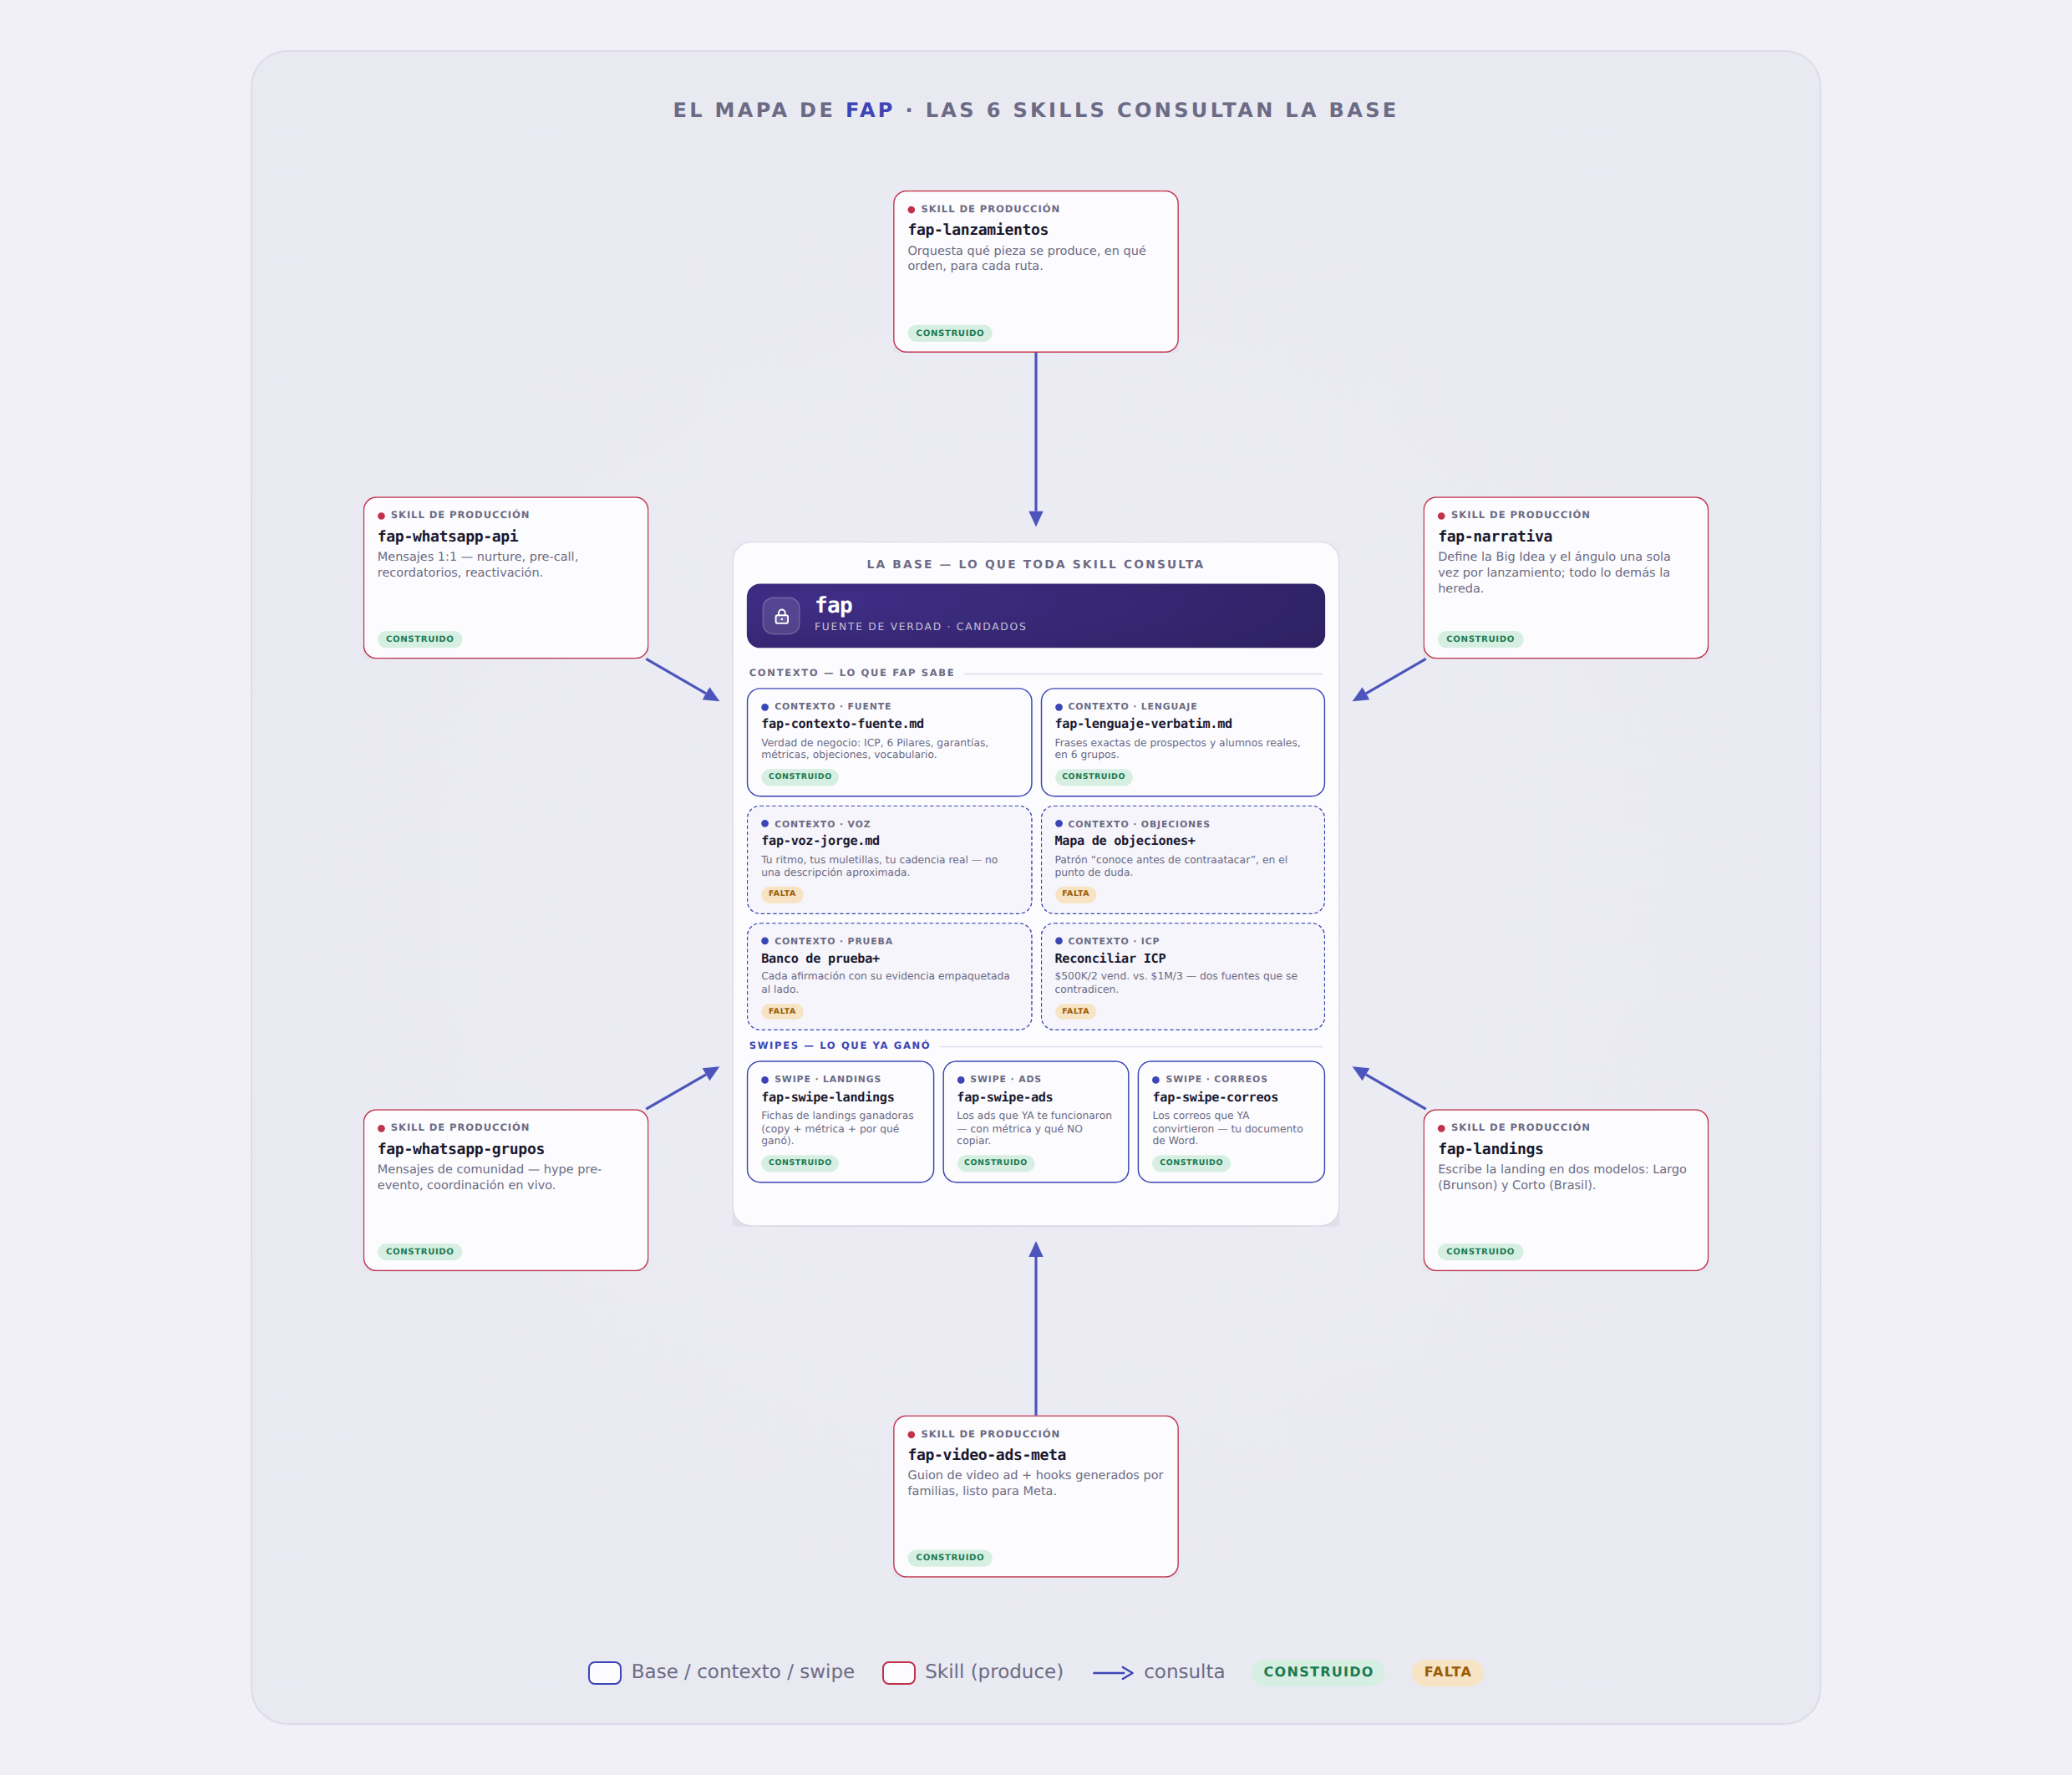
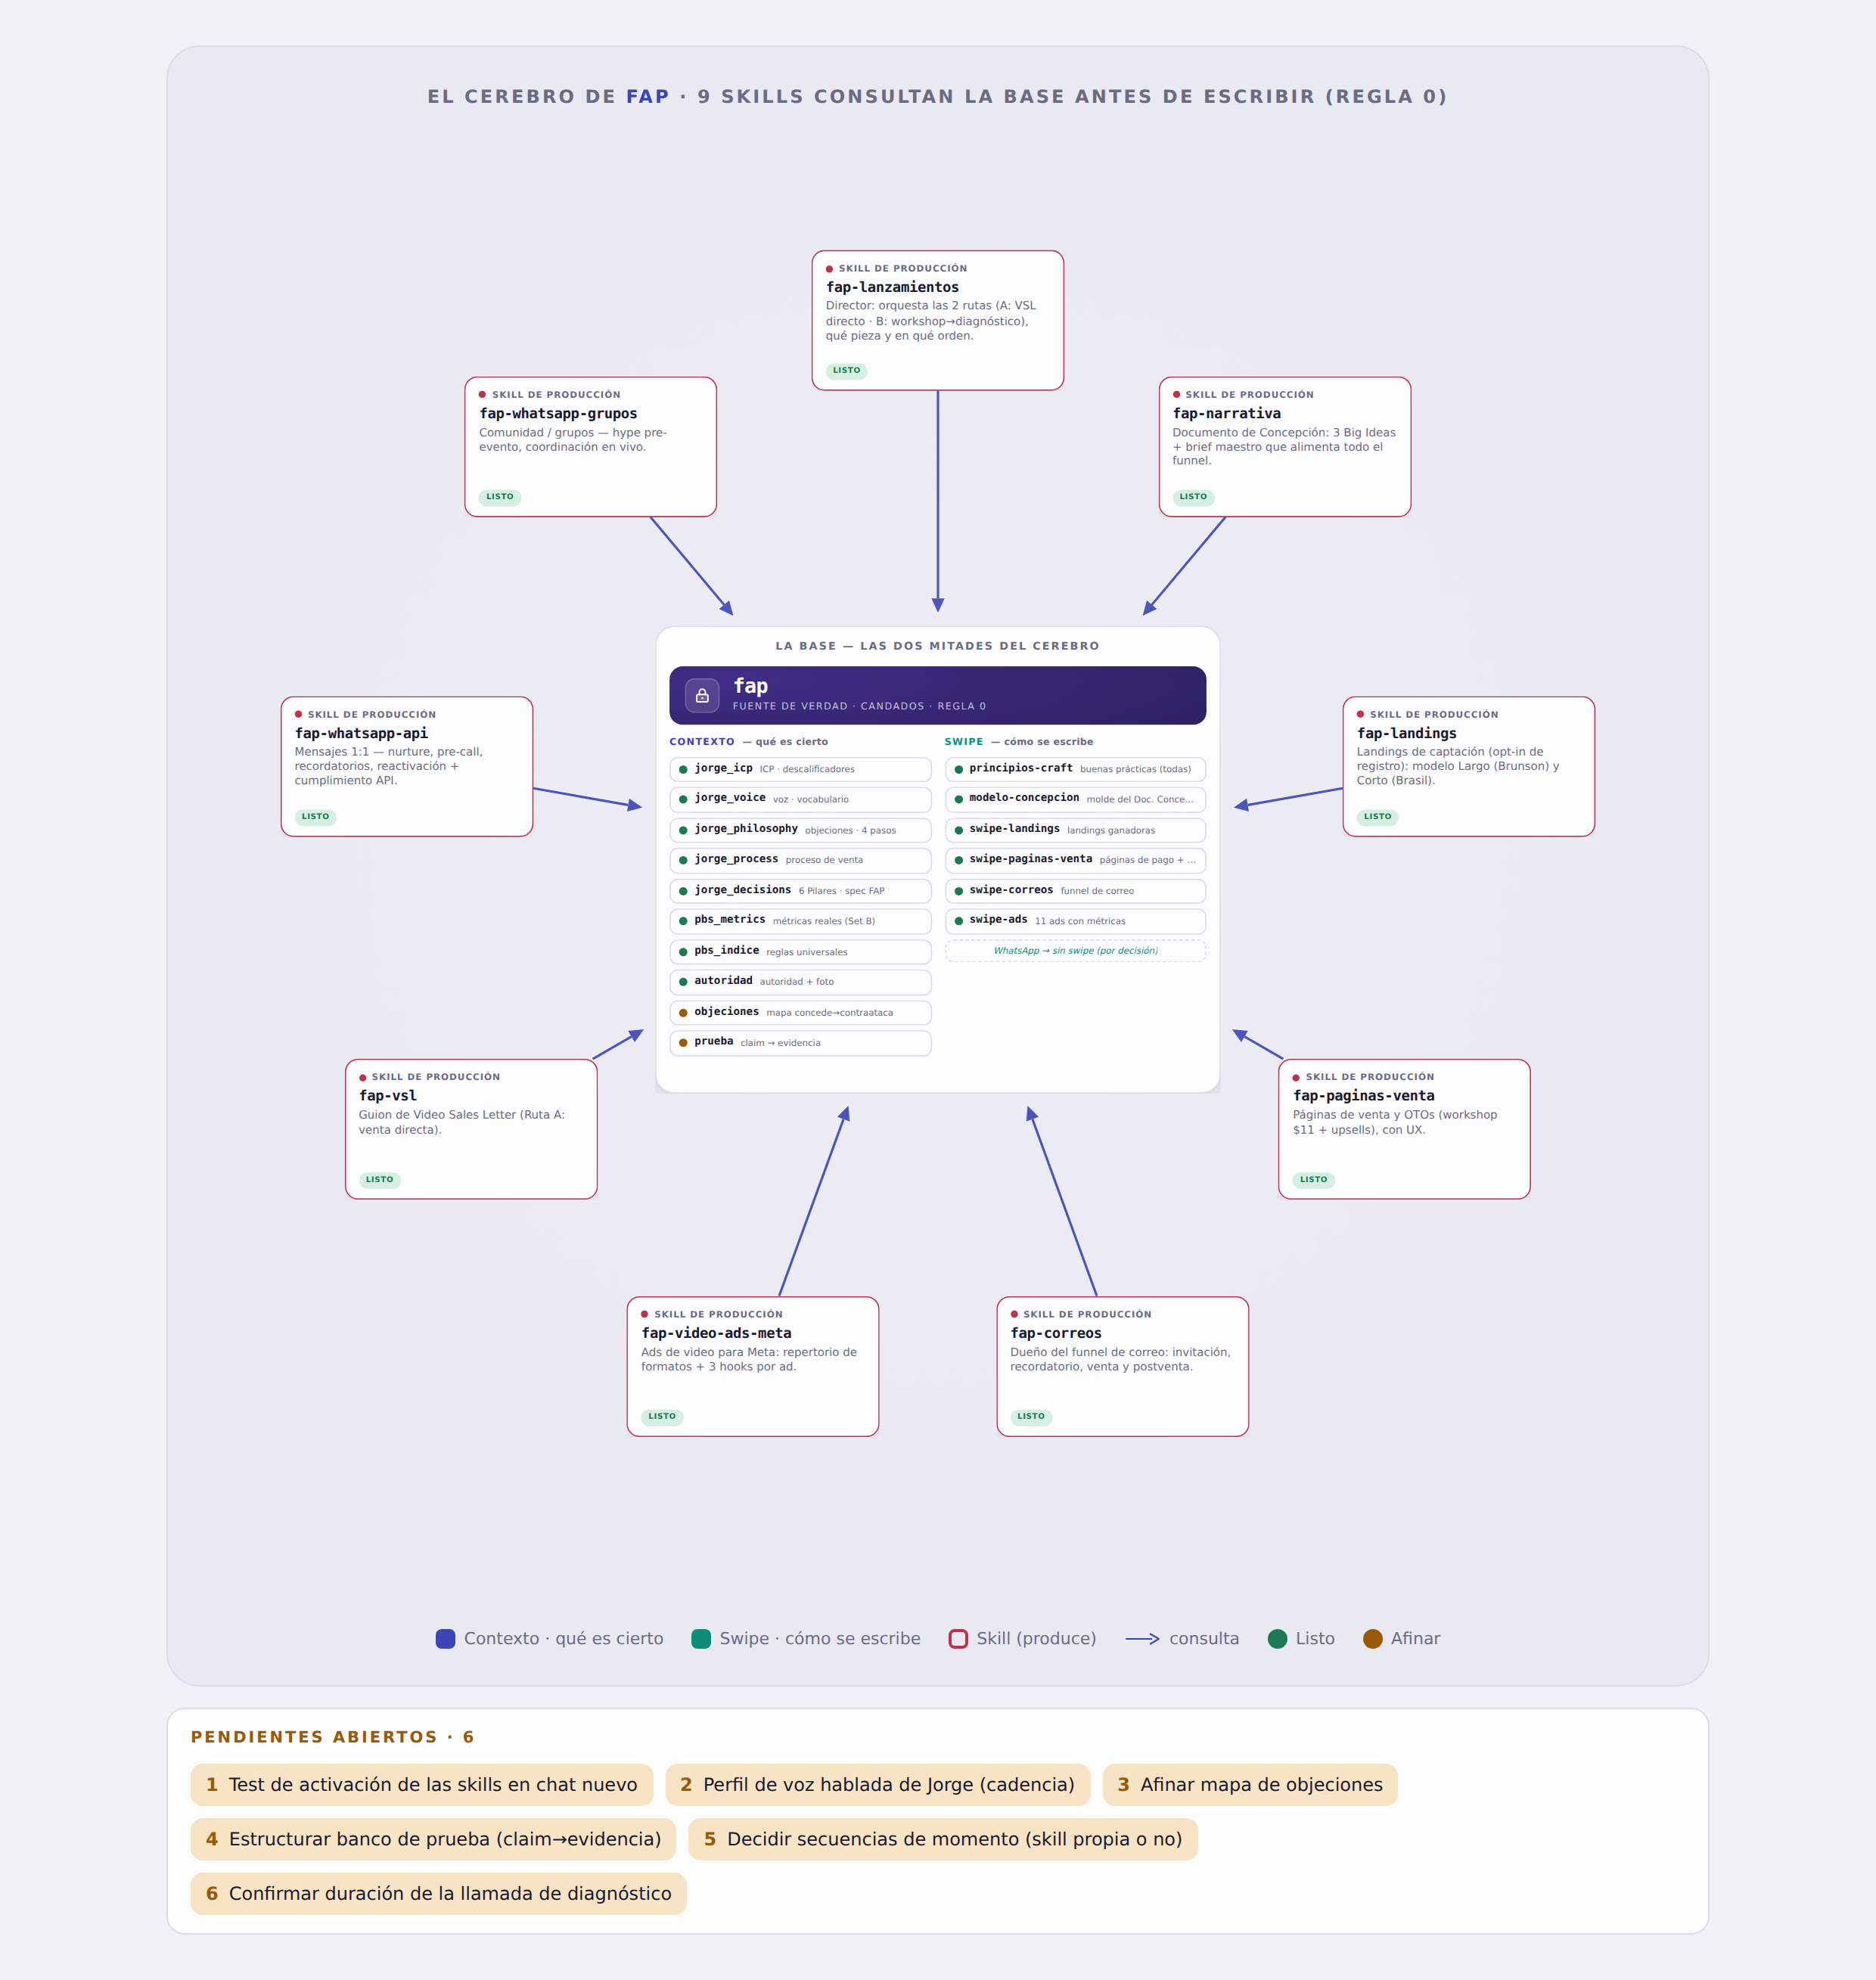
Mapa de fap: regenerado con el estado real (contexto+swipe, 9 skills, 6 pendientes)
Claude-Session: https://claude.ai/code/session_018mepF7wzZWdrftPjNoKxZB

diff --git a/piezas/mapa-cerebro-fap.html b/piezas/mapa-cerebro-fap.html
@@ -1,9 +1,9 @@
-<title>El mapa de fap</title>
+<title>El cerebro de fap</title>
 <style>
   :root{
     --bg:#F1F0F7; --panel:#E9E9F2; --card:#FCFCFE; --card-miss:#F6F5FB;
     --ink:#1A1930; --muted:#6C6B85; --hair:#DCDBEA;
-    --ctx:#3B45B5; --skill:#C0324B;
+    --ctx:#3B45B5; --sw:#0E8C7A; --skill:#C0324B;
     --navy1:#2A1F5C; --navy2:#3F2E86;
     --built-bg:#D7EFE2; --built-fg:#1B7A52;
     --miss-bg:#F6E4C4; --miss-fg:#9A5A05;
@@ -13,7 +13,7 @@
     :root{
       --bg:#0C0C17; --panel:#131324; --card:#1C1C31; --card-miss:#17172A;
       --ink:#EAEAF6; --muted:#9998B6; --hair:#2A2A44;
-      --ctx:#8A93F2; --skill:#F0788C;
+      --ctx:#8A93F2; --sw:#3FC7B4; --skill:#F0788C;
       --navy1:#3A2E7A; --navy2:#5B48B0;
       --built-bg:#123A2A; --built-fg:#6FE0A6; --miss-bg:#3A2C10; --miss-fg:#F2C579;
       --accent:#8A93F2;
@@ -22,13 +22,13 @@
   :root[data-theme="light"]{
     --bg:#F1F0F7; --panel:#E9E9F2; --card:#FCFCFE; --card-miss:#F6F5FB;
     --ink:#1A1930; --muted:#6C6B85; --hair:#DCDBEA;
-    --ctx:#3B45B5; --skill:#C0324B; --navy1:#2A1F5C; --navy2:#3F2E86;
+    --ctx:#3B45B5; --sw:#0E8C7A; --skill:#C0324B; --navy1:#2A1F5C; --navy2:#3F2E86;
     --built-bg:#D7EFE2; --built-fg:#1B7A52; --miss-bg:#F6E4C4; --miss-fg:#9A5A05; --accent:#3B45B5;
   }
   :root[data-theme="dark"]{
     --bg:#0C0C17; --panel:#131324; --card:#1C1C31; --card-miss:#17172A;
     --ink:#EAEAF6; --muted:#9998B6; --hair:#2A2A44;
-    --ctx:#8A93F2; --skill:#F0788C; --navy1:#3A2E7A; --navy2:#5B48B0;
+    --ctx:#8A93F2; --sw:#3FC7B4; --skill:#F0788C; --navy1:#3A2E7A; --navy2:#5B48B0;
     --built-bg:#123A2A; --built-fg:#6FE0A6; --miss-bg:#3A2C10; --miss-fg:#F2C579; --accent:#8A93F2;
   }
 
@@ -36,55 +36,62 @@
   body{margin:0;background:var(--bg);color:var(--ink);
     font-family:system-ui,"Segoe UI",Roboto,Helvetica,Arial,sans-serif;line-height:1.5;-webkit-font-smoothing:antialiased}
   .mono{font-family:ui-monospace,"SF Mono",Menlo,Consolas,monospace}
-  .wrap{max-width:1000px;margin:0 auto;padding:clamp(14px,3vw,30px)}
+  .wrap{max-width:1080px;margin:0 auto;padding:clamp(14px,3vw,30px)}
 
   .diagram{background:
-      radial-gradient(58% 52% at 50% 50%, color-mix(in srgb,var(--panel) 42%, var(--bg)) 0%, var(--panel) 100%);
+      radial-gradient(56% 50% at 50% 48%, color-mix(in srgb,var(--panel) 40%, var(--bg)) 0%, var(--panel) 100%);
     border:1px solid var(--hair);border-radius:22px;padding:clamp(10px,1.8vw,20px)}
-  .ring-cap{text-align:center;font-size:12px;letter-spacing:.14em;text-transform:uppercase;color:var(--muted);font-weight:600;margin:6px 0 2px}
+  .ring-cap{text-align:center;font-size:12px;letter-spacing:.13em;text-transform:uppercase;color:var(--muted);font-weight:600;margin:4px 0 0}
   .ring-cap b{color:var(--accent)}
   .diagram svg{display:block;width:100%;height:auto}
 
-  /* node cards */
-  .node{border-radius:11px;padding:9px 11px 8px;background:var(--card);display:flex;flex-direction:column;gap:4px;height:100%}
-  .node.ctx{border:1.5px solid var(--ctx)}
-  .node.skill{border:1.7px solid var(--skill);box-shadow:0 8px 20px -14px rgba(24,18,70,.5)}
-  .node.missing{border-style:dashed;background:var(--card-miss)}
-  .node .cat{display:flex;align-items:center;gap:5px;font-size:8px;letter-spacing:.08em;text-transform:uppercase;color:var(--muted);font-weight:700}
-  .node .cat .d{width:6px;height:6px;border-radius:50%;flex:none}
-  .node.ctx .cat .d{background:var(--ctx)} .node.skill .cat .d{background:var(--skill)}
-  .node .ttl{font-family:ui-monospace,Menlo,Consolas,monospace;font-weight:650;color:var(--ink);line-height:1.1;letter-spacing:-.02em}
-  .node .desc{color:var(--muted);flex:1}
-  .node .pill{align-self:flex-start;font-weight:800;letter-spacing:.06em;text-transform:uppercase;border-radius:999px;margin-top:1px}
-  .pill.built{background:var(--built-bg);color:var(--built-fg)}
-  .pill.miss{background:var(--miss-bg);color:var(--miss-fg)}
-  .cbase .node .ttl{font-size:10.5px} .cbase .node .desc{font-size:8.5px;line-height:1.25}
-  .cbase .node .pill{font-size:6.5px;padding:2px 6px} .cbase .node .cat{font-size:7.5px}
-  .skl .ttl{font-size:12.5px} .skl .desc{font-size:10px;line-height:1.3} .skl .cat{font-size:8px} .skl .pill{font-size:7px;padding:2px 7px}
+  /* ring skill cards */
+  .node{border-radius:11px;padding:9px 11px 8px;background:var(--card);display:flex;flex-direction:column;gap:4px;height:100%;
+    border:1.7px solid var(--skill);box-shadow:0 8px 20px -14px rgba(24,18,70,.5)}
+  .node .cat{display:flex;align-items:center;gap:5px;font-size:7.5px;letter-spacing:.08em;text-transform:uppercase;color:var(--muted);font-weight:700}
+  .node .cat .d{width:6px;height:6px;border-radius:50%;flex:none;background:var(--skill)}
+  .node .ttl{font-family:ui-monospace,Menlo,Consolas,monospace;font-weight:650;color:var(--ink);line-height:1.1;letter-spacing:-.02em;font-size:12px}
+  .node .desc{color:var(--muted);flex:1;font-size:9.5px;line-height:1.28}
+  .node .pill{align-self:flex-start;font-weight:800;letter-spacing:.06em;text-transform:uppercase;border-radius:999px;
+    font-size:6.5px;padding:2px 6px;background:var(--built-bg);color:var(--built-fg)}
 
   /* central base */
   .cbase{width:100%;height:100%;background:var(--card);border:1px solid var(--hair);border-radius:16px;padding:11px;
-    display:flex;flex-direction:column;box-shadow:0 22px 50px -28px rgba(24,18,70,.55)}
-  .cbase .btitle{text-align:center;font-size:9.5px;letter-spacing:.16em;text-transform:uppercase;color:var(--muted);font-weight:700;margin:1px 0 8px}
-  .fapbar{display:flex;align-items:center;gap:12px;border-radius:11px;padding:10px 13px;margin-bottom:8px;
+    display:flex;flex-direction:column;box-shadow:0 22px 52px -28px rgba(24,18,70,.55)}
+  .cbase .btitle{text-align:center;font-size:9px;letter-spacing:.15em;text-transform:uppercase;color:var(--muted);font-weight:700;margin:0 0 8px}
+  .fapbar{display:flex;align-items:center;gap:11px;border-radius:11px;padding:9px 13px;margin-bottom:9px;
     background:radial-gradient(120% 170% at 12% 25%,var(--navy2),var(--navy1));color:#fff}
-  .fapbar .lock{width:31px;height:31px;border-radius:9px;flex:none;display:grid;place-items:center;background:rgba(255,255,255,.12);border:1px solid rgba(255,255,255,.18)}
-  .fapbar .lock svg{width:16px;height:16px}
-  .fapbar .t{font-family:ui-monospace,Menlo,monospace;font-size:18px;font-weight:700;letter-spacing:-.5px;line-height:1}
-  .fapbar .s{font-size:8.5px;letter-spacing:.14em;text-transform:uppercase;color:rgba(255,255,255,.72);margin-top:2px}
-  .grplbl{display:flex;align-items:center;gap:8px;font-size:8px;letter-spacing:.14em;text-transform:uppercase;color:var(--muted);font-weight:700;margin:7px 2px 6px}
-  .grplbl::after{content:"";flex:1;height:1px;background:var(--hair)}
-  .grplbl.sw{color:var(--ctx)}
-  .bgrid2{display:grid;grid-template-columns:1fr 1fr;gap:7px}
-  .bgrid3{display:grid;grid-template-columns:1fr 1fr 1fr;gap:7px}
+  .fapbar .lock{width:29px;height:29px;border-radius:8px;flex:none;display:grid;place-items:center;background:rgba(255,255,255,.12);border:1px solid rgba(255,255,255,.18)}
+  .fapbar .lock svg{width:15px;height:15px}
+  .fapbar .t{font-family:ui-monospace,Menlo,monospace;font-size:17px;font-weight:700;letter-spacing:-.5px;line-height:1}
+  .fapbar .s{font-size:8px;letter-spacing:.12em;text-transform:uppercase;color:rgba(255,255,255,.72);margin-top:2px}
+  .btwo{display:grid;grid-template-columns:1fr 1fr;gap:11px;flex:1}
+  .bcol{display:flex;flex-direction:column;gap:4px;min-width:0}
+  .glbl{display:flex;align-items:center;gap:6px;font-size:8px;letter-spacing:.1em;text-transform:uppercase;font-weight:800;margin-bottom:2px}
+  .glbl.c{color:var(--ctx)} .glbl.s{color:var(--sw)}
+  .glbl .tag{font-weight:600;color:var(--muted);letter-spacing:.02em;text-transform:none}
+  .chip{display:flex;align-items:center;gap:6px;padding:3px 7px;border-radius:7px;background:var(--card);border:1px solid var(--hair);min-width:0}
+  .chip .dot{width:7px;height:7px;border-radius:50%;flex:none}
+  .chip .dot.ok{background:var(--built-fg)} .chip .dot.mid{background:var(--miss-fg)}
+  .chip .nm{font-family:ui-monospace,Menlo,Consolas,monospace;font-size:9px;font-weight:650;color:var(--ink);white-space:nowrap;flex:none}
+  .chip .rl{font-size:7.5px;color:var(--muted);white-space:nowrap;overflow:hidden;text-overflow:ellipsis;min-width:0}
+  .chip.note{border-style:dashed;justify-content:center}
+  .chip.note .rl{font-style:italic;text-align:center;flex:none;color:var(--sw)}
 
-  /* mini legend */
-  .mini{display:flex;flex-wrap:wrap;justify-content:center;gap:16px;margin:10px 4px 2px;font-size:11.5px;color:var(--muted)}
+  /* mini legend + pendientes */
+  .mini{display:flex;flex-wrap:wrap;justify-content:center;gap:14px 18px;margin:12px 4px 2px;font-size:11px;color:var(--muted)}
   .mini .i{display:flex;align-items:center;gap:6px}
-  .mini .sw{width:20px;height:14px;border-radius:4px;background:var(--card)}
-  .mini .sw.ctx{border:1.6px solid var(--ctx)} .mini .sw.skill{border:1.6px solid var(--skill)} .mini .sw.miss{border:1.6px dashed var(--muted)}
-  .mini .pl{font-size:8px;font-weight:800;letter-spacing:.08em;text-transform:uppercase;padding:2px 7px;border-radius:999px}
-  .mini svg{width:26px;height:12px;color:var(--accent)}
+  .mini .b{width:13px;height:13px;border-radius:4px;flex:none}
+  .mini .b.ctx{background:var(--ctx)} .mini .b.sw{background:var(--sw)} .mini .b.skill{border:2px solid var(--skill)}
+  .mini .b.ok{background:var(--built-fg)} .mini .b.mid{background:var(--miss-fg)}
+  .mini .b.dot{border-radius:50%}
+  .mini svg{width:24px;height:11px;color:var(--accent)}
+
+  .pend{margin-top:14px;border:1px solid var(--hair);border-radius:12px;background:var(--card);padding:12px 15px}
+  .pend h4{margin:0 0 8px;font-size:10.5px;letter-spacing:.14em;text-transform:uppercase;color:var(--miss-fg)}
+  .pend .list{display:flex;flex-wrap:wrap;gap:8px}
+  .pend .p{display:flex;align-items:center;gap:7px;font-size:12px;background:var(--miss-bg);color:var(--ink);border-radius:8px;padding:5px 10px}
+  .pend .p .n{font-weight:800;color:var(--miss-fg);font-variant-numeric:tabular-nums}
 
   .arrow-l{animation:apulse 2.6s ease-in-out infinite}
   @keyframes apulse{0%,100%{opacity:.55}50%{opacity:1}}
@@ -93,31 +100,47 @@
 
 <div class="wrap">
   <div class="diagram">
-    <div class="ring-cap">El mapa de <b>fap</b> · las 6 skills consultan la base</div>
+    <div class="ring-cap">El cerebro de <b>fap</b> · 9 skills consultan la base antes de escribir (Regla 0)</div>
     <div id="stage"></div>
     <div class="mini">
-      <span class="i"><span class="sw ctx"></span>Base / contexto / swipe</span>
-      <span class="i"><span class="sw skill"></span>Skill (produce)</span>
+      <span class="i"><span class="b ctx"></span>Contexto · qué es cierto</span>
+      <span class="i"><span class="b sw"></span>Swipe · cómo se escribe</span>
+      <span class="i"><span class="b skill"></span>Skill (produce)</span>
       <span class="i"><svg viewBox="0 0 44 20" aria-hidden="true"><line x1="2" y1="10" x2="34" y2="10" stroke="currentColor" stroke-width="2"/><path d="M32 4 L42 10 L32 16" fill="none" stroke="currentColor" stroke-width="2" stroke-linejoin="round" stroke-linecap="round"/></svg>consulta</span>
-      <span class="i"><span class="pl" style="background:var(--built-bg);color:var(--built-fg)">Construido</span></span>
-      <span class="i"><span class="pl" style="background:var(--miss-bg);color:var(--miss-fg)">Falta</span></span>
+      <span class="i"><span class="b ok dot"></span>Listo</span>
+      <span class="i"><span class="b mid dot"></span>Afinar</span>
+    </div>
+  </div>
+
+  <div class="pend">
+    <h4>Pendientes abiertos · 6</h4>
+    <div class="list">
+      <span class="p"><span class="n">1</span>Test de activación de las skills en chat nuevo</span>
+      <span class="p"><span class="n">2</span>Perfil de voz hablada de Jorge (cadencia)</span>
+      <span class="p"><span class="n">3</span>Afinar mapa de objeciones</span>
+      <span class="p"><span class="n">4</span>Estructurar banco de prueba (claim→evidencia)</span>
+      <span class="p"><span class="n">5</span>Decidir secuencias de momento (skill propia o no)</span>
+      <span class="p"><span class="n">6</span>Confirmar duración de la llamada de diagnóstico</span>
     </div>
   </div>
 </div>
 
 <script>
 (function(){
-  var CX=620, CY=624, R=506;
-  var BW=502, BH=566, bhw=BW/2, bhh=BH/2;
-  var SW=236, SH=134, shw=SW/2, shh=SH/2;
+  var CX=620, CY=628, R=452;
+  var BW=474, BH=392, bhw=BW/2, bhh=BH/2;
+  var SW=212, SH=118, shw=SW/2, shh=SH/2;
 
   var SK=[
-    {a:-90, ttl:'fap-lanzamientos', d:'Orquesta qué pieza se produce, en qué orden, para cada ruta.'},
-    {a:-30, ttl:'fap-narrativa',    d:'Define la Big Idea y el ángulo una sola vez por lanzamiento; todo lo demás la hereda.'},
-    {a: 30, ttl:'fap-landings',     d:'Escribe la landing en dos modelos: Largo (Brunson) y Corto (Brasil).'},
-    {a: 90, ttl:'fap-video-ads-meta',d:'Guion de video ad + hooks generados por familias, listo para Meta.'},
-    {a:150, ttl:'fap-whatsapp-grupos',d:'Mensajes de comunidad — hype pre-evento, coordinación en vivo.'},
-    {a:210, ttl:'fap-whatsapp-api', d:'Mensajes 1:1 — nurture, pre-call, recordatorios, reactivación.'}
+    {a:-90, ttl:'fap-lanzamientos', d:'Director: orquesta las 2 rutas (A: VSL directo · B: workshop→diagnóstico), qué pieza y en qué orden.'},
+    {a:-50, ttl:'fap-narrativa', d:'Documento de Concepción: 3 Big Ideas + brief maestro que alimenta todo el funnel.'},
+    {a:-10, ttl:'fap-landings', d:'Landings de captación (opt-in de registro): modelo Largo (Brunson) y Corto (Brasil).'},
+    {a: 30, ttl:'fap-paginas-venta', d:'Páginas de venta y OTOs (workshop $11 + upsells), con UX.'},
+    {a: 70, ttl:'fap-correos', d:'Dueño del funnel de correo: invitación, recordatorio, venta y postventa.'},
+    {a:110, ttl:'fap-video-ads-meta', d:'Ads de video para Meta: repertorio de formatos + 3 hooks por ad.'},
+    {a:150, ttl:'fap-vsl', d:'Guion de Video Sales Letter (Ruta A: venta directa).'},
+    {a:190, ttl:'fap-whatsapp-api', d:'Mensajes 1:1 — nurture, pre-call, recordatorios, reactivación + cumplimiento API.'},
+    {a:230, ttl:'fap-whatsapp-grupos', d:'Comunidad / grupos — hype pre-evento, coordinación en vivo.'}
   ];
 
   function hit(hw,hh,ux,uy){ return Math.min(hw/(Math.abs(ux)||1e-6), hh/(Math.abs(uy)||1e-6)); }
@@ -128,47 +151,50 @@
     var sx=CX+R*ox, sy=CY+R*oy;
     var se=hit(shw,shh,ox,oy), sex=sx-ox*se, sey=sy-oy*se;
     var be=hit(bhw,bhh,ox,oy), bex=CX+ox*be, bey=CY+oy*be;
-    bex+=ox*12; bey+=oy*12;
-    var bcx=bex+ox*13, bcy=bey+oy*13, px=-oy, py=ox, w=6;
-    lines+='<line x1="'+sex.toFixed(1)+'" y1="'+sey.toFixed(1)+'" x2="'+bcx.toFixed(1)+'" y2="'+bcy.toFixed(1)+'" stroke="var(--accent)" stroke-width="2.2" class="arrow-l"/>';
+    bex+=ox*11; bey+=oy*11;
+    var bcx=bex+ox*12, bcy=bey+oy*12, px=-oy, py=ox, w=5.5;
+    lines+='<line x1="'+sex.toFixed(1)+'" y1="'+sey.toFixed(1)+'" x2="'+bcx.toFixed(1)+'" y2="'+bcy.toFixed(1)+'" stroke="var(--accent)" stroke-width="2" class="arrow-l"/>';
     arrows+='<polygon points="'+bex.toFixed(1)+','+bey.toFixed(1)+' '+(bcx+px*w).toFixed(1)+','+(bcy+py*w).toFixed(1)+' '+(bcx-px*w).toFixed(1)+','+(bcy-py*w).toFixed(1)+'" fill="var(--accent)" class="arrow-l"/>';
     skills+='<foreignObject x="'+(sx-shw)+'" y="'+(sy-shh)+'" width="'+SW+'" height="'+SH+'">'+
-      '<div xmlns="http://www.w3.org/1999/xhtml" class="node skill skl">'+
+      '<div xmlns="http://www.w3.org/1999/xhtml" class="node">'+
         '<div class="cat"><span class="d"></span>Skill de producción</div>'+
         '<div class="ttl">'+s.ttl+'</div><div class="desc">'+s.d+'</div>'+
-        '<span class="pill built">Construido</span></div></foreignObject>';
+        '<span class="pill">Listo</span></div></foreignObject>';
   });
 
-  function ctx(kind,ttl,desc,built){
-    return '<div class="node ctx'+(built?'':' missing')+'">'+
-      '<div class="cat"><span class="d"></span>'+kind+'</div>'+
-      '<div class="ttl">'+ttl+'</div><div class="desc">'+desc+'</div>'+
-      '<span class="pill '+(built?'built':'miss')+'">'+(built?'Construido':'Falta')+'</span></div>';
-  }
+  function chip(nm,rl,mid){ return '<div class="chip"><span class="dot '+(mid?'mid':'ok')+'"></span><span class="nm">'+nm+'</span><span class="rl">'+rl+'</span></div>'; }
+
+  var ctxCol='<div class="bcol"><div class="glbl c">Contexto <span class="tag">— qué es cierto</span></div>'+
+    chip('jorge_icp','ICP · descalificadores')+
+    chip('jorge_voice','voz · vocabulario')+
+    chip('jorge_philosophy','objeciones · 4 pasos')+
+    chip('jorge_process','proceso de venta')+
+    chip('jorge_decisions','6 Pilares · spec FAP')+
+    chip('pbs_metrics','métricas reales (Set B)')+
+    chip('pbs_indice','reglas universales')+
+    chip('autoridad','autoridad + foto')+
+    chip('objeciones','mapa concede→contraataca',true)+
+    chip('prueba','claim → evidencia',true)+
+    '</div>';
+  var swCol='<div class="bcol"><div class="glbl s">Swipe <span class="tag">— cómo se escribe</span></div>'+
+    chip('principios-craft','buenas prácticas (todas)')+
+    chip('modelo-concepcion','molde del Doc. Concepción')+
+    chip('swipe-landings','landings ganadoras')+
+    chip('swipe-paginas-venta','páginas de pago + OTOs')+
+    chip('swipe-correos','funnel de correo')+
+    chip('swipe-ads','11 ads con métricas')+
+    '<div class="chip note"><span class="rl">WhatsApp → sin swipe (por decisión)</span></div>'+
+    '</div>';
 
   var base='<foreignObject x="'+(CX-bhw)+'" y="'+(CY-bhh)+'" width="'+BW+'" height="'+BH+'">'+
     '<div xmlns="http://www.w3.org/1999/xhtml" class="cbase">'+
-      '<div class="btitle">La base — lo que toda skill consulta</div>'+
+      '<div class="btitle">La base — las dos mitades del cerebro</div>'+
       '<div class="fapbar"><div class="lock"><svg xmlns="http://www.w3.org/2000/svg" viewBox="0 0 24 24" fill="none" stroke="#fff" stroke-width="2" stroke-linecap="round"><rect x="4.5" y="10.5" width="15" height="10" rx="2.2" fill="rgba(255,255,255,.14)"/><path d="M8 10.5V7.5a4 4 0 0 1 8 0v3"/><circle cx="12" cy="15.4" r="1.4" fill="#fff" stroke="none"/></svg></div>'+
-        '<div><div class="t">fap</div><div class="s">Fuente de verdad · candados</div></div></div>'+
-      '<div class="grplbl">Contexto — lo que fap sabe</div>'+
-      '<div class="bgrid2">'+
-        ctx('Contexto · fuente','fap-contexto-fuente.md','Verdad de negocio: ICP, 6 Pilares, garantías, métricas, objeciones, vocabulario.',true)+
-        ctx('Contexto · lenguaje','fap-lenguaje-verbatim.md','Frases exactas de prospectos y alumnos reales, en 6 grupos.',true)+
-        ctx('Contexto · voz','fap-voz-jorge.md','Tu ritmo, tus muletillas, tu cadencia real — no una descripción aproximada.',false)+
-        ctx('Contexto · objeciones','Mapa de objeciones+','Patrón “conoce antes de contraatacar”, en el punto de duda.',false)+
-        ctx('Contexto · prueba','Banco de prueba+','Cada afirmación con su evidencia empaquetada al lado.',false)+
-        ctx('Contexto · ICP','Reconciliar ICP','$500K/2 vend. vs. $1M/3 — dos fuentes que se contradicen.',false)+
-      '</div>'+
-      '<div class="grplbl sw">Swipes — lo que ya ganó</div>'+
-      '<div class="bgrid3">'+
-        ctx('Swipe · landings','fap-swipe-landings','Fichas de landings ganadoras (copy + métrica + por qué ganó).',true)+
-        ctx('Swipe · ads','fap-swipe-ads','Los ads que YA te funcionaron — con métrica y qué NO copiar.',true)+
-        ctx('Swipe · correos','fap-swipe-correos','Los correos que YA convirtieron — tu documento de Word.',true)+
-      '</div>'+
+        '<div><div class="t">fap</div><div class="s">Fuente de verdad · candados · Regla 0</div></div></div>'+
+      '<div class="btwo">'+ctxCol+swCol+'</div>'+
     '</div></foreignObject>';
 
-  var svg='<svg viewBox="0 0 1240 1250" role="img" aria-label="La base de fap en el centro y las 6 skills alrededor consultándola">'+
+  var svg='<svg viewBox="0 0 1240 1256" role="img" aria-label="El cerebro de fap: base de contexto y swipe al centro, 9 skills de producción alrededor consultándola">'+
     lines+arrows+base+skills+'</svg>';
   document.getElementById('stage').innerHTML=svg;
 })();